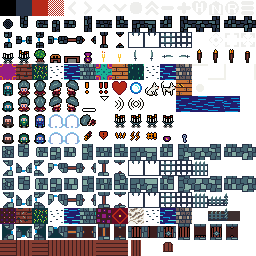
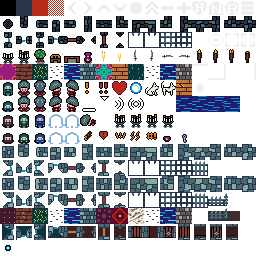
Player tracking status indicator

Changed region(s): [[0.0, 0.9375, 0.5625, 1.0], [0.625, 0.9375, 0.6875, 1.0]]

diff --git a/src/game.ts b/src/game.ts
@@ -361,18 +361,32 @@ function advanceToWin(state: State) {
     state.topStatusMessageSticky = false;
 }
 
-export function playerMoveTo(player:Player, pos: vec2) {
+export function playerMoveTo(state:State, gameMap: GameMap, player:Player, pos: vec2) {
+    if(player.pos[0]===pos[0] && player.pos[1]===pos[1]) {
+        return;
+    }
+
     const pt0 = vec2.fromValues(player.pos[0]-pos[0], player.pos[1]-pos[1]);
     const pt1 = vec2.create();
     player.animation = new SpriteAnimation([{pt0:pt0, pt1:pt1, duration:0.2, fn:tween.easeOutQuad}],
         [tileSet.playerTiles[0]]);
     player.pos = vec2.fromValues(pos[0], pos[1]);
-    // const loot = state.gameMap.collectLootAt(player.pos[0], player.pos[1]);
-    // if (loot > 0) {
-    //     player.loot += loot;
-    //     state.lootStolen += loot;
-    //     state.sounds.coin.play(1.0);
-    // }
+
+    const x = player.pos[0];
+    const y = player.pos[1];
+
+    for(let x1=Math.max(x-1,0);x1<=Math.min(x+1, gameMap.cells.sizeX-1);++x1) {
+        for(let y1=Math.max(y-1,0);y1<=Math.min(y+1, gameMap.cells.sizeY-1);++y1) {
+            gameMap.cells.at(x1,y1).identified = true;
+        }
+    }
+
+    const loot = state.gameMap.collectLootAt(player.pos[0], player.pos[1]);
+    if (loot > 0) {
+        player.loot += loot;
+        state.lootStolen += loot;
+        state.sounds.coin.play(1.0);
+    }
 }
 
 
@@ -407,7 +421,7 @@ function tryMovePlayer(state: State, dx: number, dy: number, distDesired: number
         }
         preTurn(state);
         const guard = player.pickTarget;
-        if(guard instanceof Guard && guard.cardinallyAdjacentTo(player.pos)) {
+        if(guard instanceof Guard && guard.adjacentTo(player.pos)) {
             player.pickTimeout--;
             if(player.pickTimeout===0  && guard.hasPurse) {
                 guard.hasPurse = false;
@@ -751,7 +765,7 @@ function advanceTime(state: State) {
         state.player.turnsRemainingUnderwater = 7;
     }
 
-    guardActAll(state.gameMap, state.popups, state.player);
+    guardActAll(state, state.gameMap, state.popups, state.player);
 
     if(state.gameMap.guards.find((guard)=> guard.mode===GuardMode.ChaseVisibleTarget || guard.mode===GuardMode.Unconscious)!==undefined) {
         //TODO: Play a disappointed sound if the first time this happens on the level
@@ -1212,7 +1226,8 @@ function renderGuards(state: State, renderer: Renderer) {
 }
 
 function renderIconOverlays(state: State, renderer: Renderer) {
-    for (const guard of state.gameMap.guards) {
+        const player = state.player
+        for (const guard of state.gameMap.guards) {
         const cell = state.gameMap.cells.at(guard.pos[0], guard.pos[1]);
         const visible = state.seeAll || cell.seen || guard.speaking;
         if (!visible && vec2.squaredDistance(state.player.pos, guard.pos) > 36) {
@@ -1220,24 +1235,32 @@ function renderIconOverlays(state: State, renderer: Renderer) {
         }
 
         const guardState = guard.overheadIcon();
-        if (guardState === GuardStates.Relaxed) {
-            continue;
+        let gtile:TileInfo;
+        if (guardState!==GuardStates.Relaxed) {
+            gtile = renderer.tileSet.guardStateTiles[guardState]
+        } else {
+            // Render the shadowing indicator if player is shadowing a guard
+            if (guard===player.pickTarget) {
+                gtile = {textureIndex:0xf0, color:0xffffffff};
+            } else {
+                continue;
+            }
         }
 
         let offset = guard.animation?.offset?? vec2.create();
         const x = guard.pos[0] + offset[0];
         const y = guard.pos[1] + offset[1] + 0.625;
 
-        renderer.addGlyph(x, y, x+1, y+1, renderer.tileSet.guardStateTiles[guardState], 1);
+        renderer.addGlyph(x, y, x+1, y+1, gtile, 1);
     }
 
     // Render an icon over the player if the player is being noisy
-
-    if (state.player.noisy) {
-        const x = state.player.pos[0];
-        const y = state.player.pos[1] - 0.5;
+    if (player.noisy) {
+        const x = player.pos[0];
+        const y = player.pos[1] - 0.5;
         renderer.addGlyph(x, y, x+1, y+1, {textureIndex: 104, color: 0x80ffffff}, 1);
     }
+
 }
 
 function renderGuardSight(state: State, renderer: Renderer) {

diff --git a/src/guard.ts b/src/guard.ts
@@ -5,6 +5,7 @@ import { vec2 } from './my-matrix';
 import { randomInRange } from './random';
 import { Popups, PopupType } from './popups';
 import { LightSourceAnimation, SpriteAnimation, tween } from './animation';
+import { State } from './types';
 import { playerMoveTo } from './game';
 
 enum MoveResult {
@@ -328,10 +329,6 @@ class Guard {
         if (this.mode === GuardMode.ChaseVisibleTarget && modePrev !== GuardMode.ChaseVisibleTarget) {
             shouts.push({pos_shouter: this.pos, pos_target: player.pos, target: player});
         }
-
-        if(player.pickTarget===this && (posPrev[0]!==this.pos[0] || posPrev[1]!==this.pos[1])) {
-            playerMoveTo(player, posPrev);
-        }
     }
 
     cardinallyAdjacentTo(pos: vec2): boolean {
@@ -592,7 +589,7 @@ type Shout = {
     target: Player|Guard;
 }
 
-function guardActAll(map: GameMap, popups: Popups, player: Player) {
+function guardActAll(state: State, map: GameMap, popups: Popups, player: Player) {
 
     // Mark if we heard a guard last turn, and clear the speaking flag.
 
@@ -604,9 +601,19 @@ function guardActAll(map: GameMap, popups: Popups, player: Player) {
     }
 
     // Update each guard for this turn.
-
     const shouts: Array<Shout> = [];
-    for (const guard of map.guards) {
+    if(player.pickTarget instanceof Guard) {
+        const guard = player.pickTarget;
+        const oldPos = vec2.fromValues(guard.pos[0], guard.pos[1]);
+        guard.act(map, popups, player, shouts);
+        guard.hasMoved = true;
+        if(oldPos[0]!==guard.pos[0] || oldPos[1]!==guard.pos[1]) {
+            playerMoveTo(state, map, player, oldPos);
+        }
+    }
+
+    const otherGuards = map.guards.filter((guard)=>guard!==player.pickTarget);
+    for (const guard of otherGuards) {
         guard.act(map, popups, player, shouts);
         guard.hasMoved = true;
     }
@@ -615,6 +622,10 @@ function guardActAll(map: GameMap, popups: Popups, player: Player) {
 
     for (const shout of shouts) {
         alertNearbyGuards(map, shout);
+    }
+
+    if(player.pickTarget instanceof Guard && !isRelaxedGuardMode(player.pickTarget.mode)) {
+        player.pickTarget = null;
     }
 }
 
